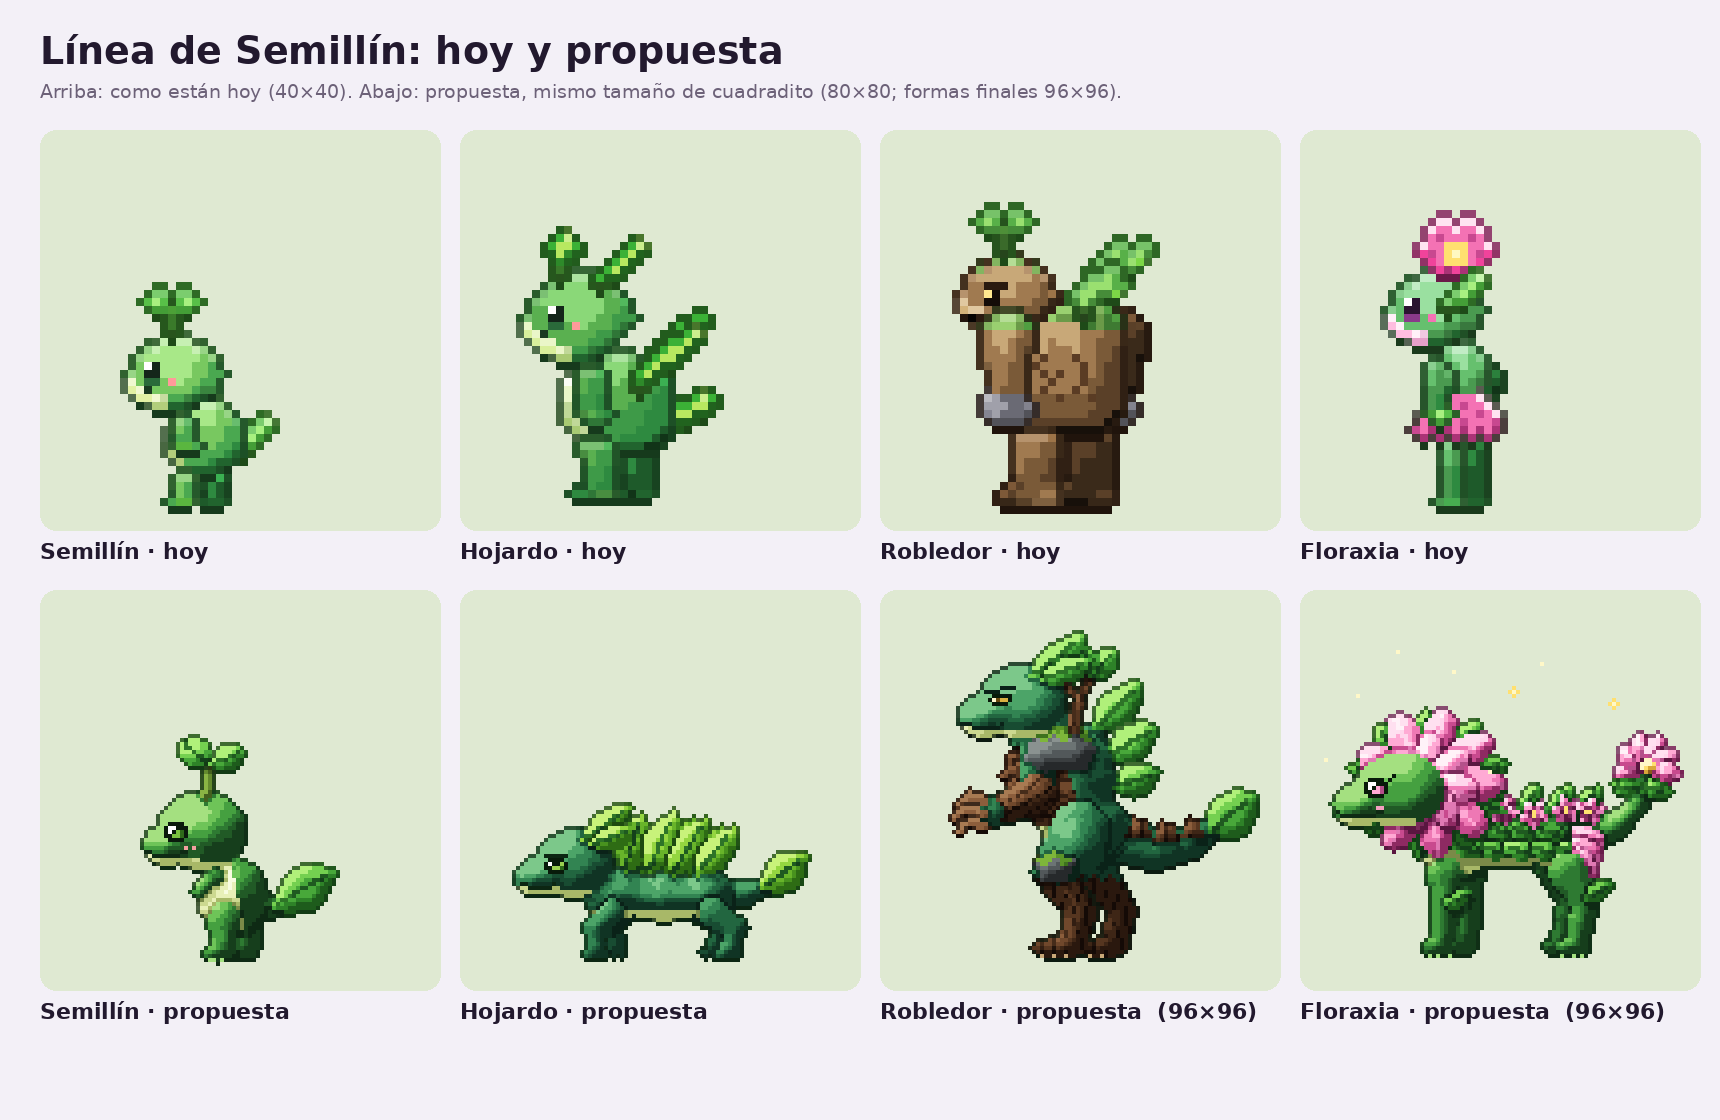
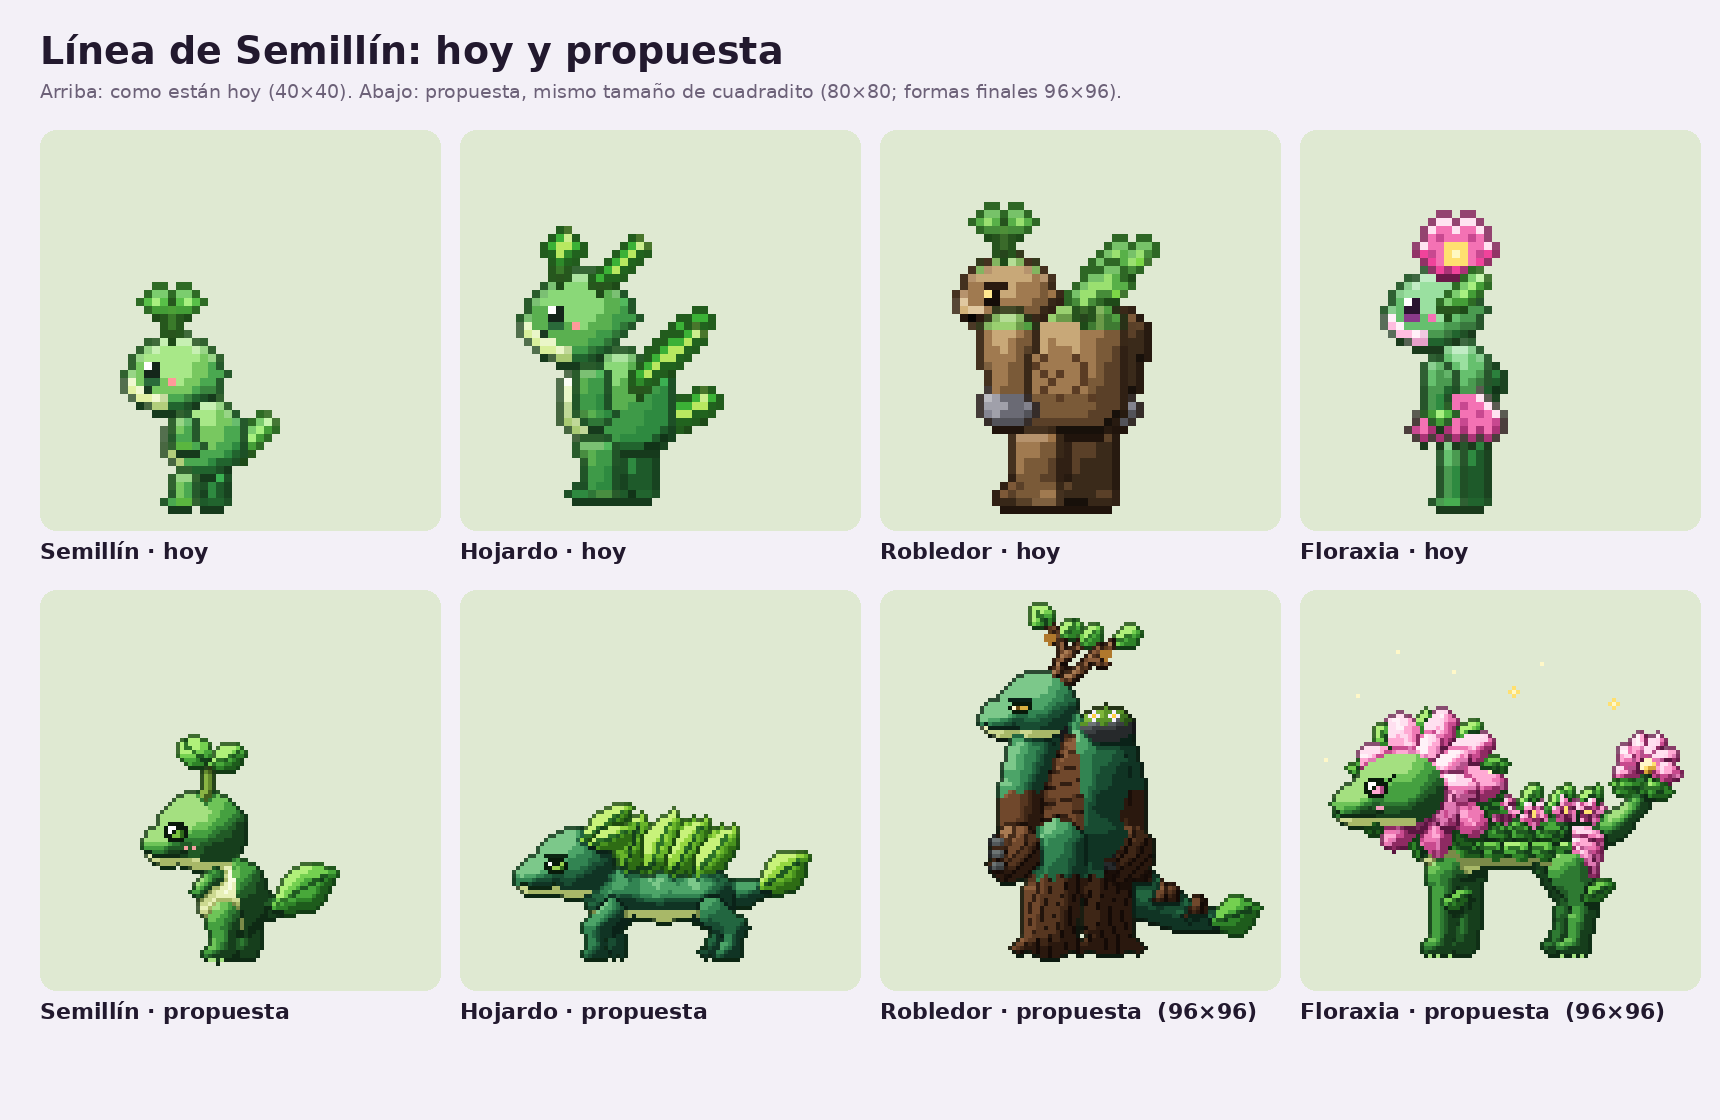
Estudio: Robledor como guardián erguido con astas de ramas (distinto de Magmaurio)
Claude-Session: https://claude.ai/code/session_01CbjX1Jp4CqY9crVcrZtYX4

Changed region(s): [[0.5547, 0.5312, 0.7395, 0.875]]

diff --git a/estudio/robledor/robledor.py b/estudio/robledor/robledor.py
@@ -1,9 +1,9 @@
 """Robledor (planta/roca): forma final de Hojardo por el camino del combate cercano.
 «Un coloso de corteza y piedra. Se planta firme en el suelo y golpea con la fuerza de un roble centenario.»
-Guerrero del bosque en dos patas (proporciones normales, como Magmaurio): piel verde de geco con armadura de
-corteza (peto, brazales y grebas con vetas) y piedra con musgo (hombrera y rodilleras), manos con garras de
-madera, la cabeza de geco de la familia bien visible con su cresta de hojas, hojas grandes en el lomo (las de
-Hojardo), un retoño de roble que le brota del hombro y la cola de geco que termina en una hoja grande."""
+Guardián del bosque, erguido (no un peleador agachado como Magmaurio): parado derecho con los pies plantados,
+piernas rectas como troncos con raíces, torso alto con peto de corteza, hombreras de piedra con musgo y
+florcitas, brazos que cuelgan y terminan en grandes puños de madera nudosa (como mazas), la cabeza de geco de
+la familia coronada por ramas como astas con hojas y bellotas, y la cola gruesa apoyada en el suelo."""
 import math, os, sys
 sys.path.insert(0, os.path.join(os.path.dirname(os.path.abspath(__file__)), '..'))
 import numpy as np
@@ -45,87 +45,85 @@ def stone(moss_top=None):
     return f
 
 
-def claw_hand(c, x, y, far=False):
-    """mano de geco con tres garras de madera"""
-    b = -0.3 if far else 0.0
-    c.parte(c.ell(x, y, 2.8, 3.0), 'skin', R=2.5, bias=b, far=far)
-    for i, (dy, L) in enumerate(((-2.6, 5.4), (0.2, 6.4), (2.8, 5.0))):
-        pts = [(x - 1.4, y + dy), (x - 1.4 - L * 0.5, y + dy - 1.1), (x - 1.4 - L * 0.85, y + dy - 0.2), (x - 1.4 - L, y + dy + 1.3)]
-        c.parte(c.caps(pts, [1.1, 0.9, 0.6, 0.35]), 'bark', R=1.2, bias=b + 0.45, outline='#140a06', far=far)
-
-
 def build(P):
     motor.tamano(96)
-    c = Lienzo(RAMP, P, S=0.98 * 1.2, OX=34, OY=75, CX=34 * 1.2, CY=90, outline='#0c1a10', mid=MID, span=SPAN)
+    c = Lienzo(RAMP, P, S=1.0 * 1.2, OX=40, OY=75, CX=47, CY=90, outline='#0c1a10', mid=MID, span=SPAN)
     f = P['fl']; sw = math.sin(f * 1.3) * 0.8
 
-    def greave(top):
+    def leg_mat(top):
         def g(X, Y):
             m = np.where(Y > top + np.sin(X * 2) * 0.8, 'bark', 'skin').astype(object)
             m[(m == 'bark') & (((X + np.sin(Y * 0.5)) % 2.8) < 0.6)] = 'barkd'
             return m
         return g
-    # ---- pierna lejana (digitígrada) ----
-    legF = c.caps([(46, 48), (43.5, 56), (49, 65), (47.5, 72)], [5.4, 3.8, 2.8, 2.6]) | c.ell(44.8, 73, 4.6, 1.9)
-    c.parte(legF, greave(58), R=3.5, bias=-0.3, far=True)
-    # ---- brazo lejano ----
-    c.parte(c.caps([(42, 30), (41.5, 38.5)], [4.2, 3.4]), 'skin', R=3, bias=-0.3, far=True)
-    c.parte(c.caps([(41.5, 39), (34, 35.5)], [3.8, 3.0]) | c.ell(41, 39.5, 3.6, 3.0), bark(0.9, 2.8), R=3, bias=-0.3, far=True)
-    claw_hand(c, 31.6, 35.2, far=True)
-    # ---- cola de geco con placas de corteza y una hoja grande al final ----
-    c.local(rot=P['tail'], piv=(49, 50))
-    c.parte(c.caps([(49, 50), (56, 52), (63, 51), (69, 47.5)], [4.6, 4.2, 3.2, 2.0]), 'skin', R=4)
-    for (x, y, r) in [(52.5, 47.8, 2.8), (58.5, 48.6, 2.6), (64, 47.4, 2.2)]:
+
+    def tronco_pierna(x0, y0, x1, r0, r1, far):
+        m = c.caps([(x0, y0), ((x0 + x1) / 2, 61), (x1, 69.5)], [r0, (r0 + r1) / 2, r1])
+        for dx, dy in [(-r1 - 1, 2.5), (-r1 * 0.4, 3.4), (r1 * 0.4, 3.2), (r1 + 1, 2.2)]:     # raíces que se agarran al suelo
+            m |= c.caps([(x1, 69.5), (x1 + dx, 72 + dy * 0.4)], [2.2, 1.0])
+        c.parte(m, leg_mat(58), R=4, bias=-0.3 if far else 0.04, far=far)
+
+    def puno(x, y, far):
+        """puño de madera nudosa, como una maza, con nudillos de piedra"""
+        b = -0.3 if far else 0.0
+        c.parte(c.ell(x, y, 5.2, 5.6) | c.ell(x - 1.5, y + 2.5, 4, 3.6), bark(0.6, 2.6), R=4, bias=b + 0.1, far=far)
+        for k in range(3):
+            c.parte(c.ell(x - 3.6, y - 2 + k * 2.4, 1.3, 1.0), stone(), R=1, bias=b, outline='#0e0e10', far=far)
+    # ---- cola gruesa apoyada en el suelo ----
+    c.local(rot=P['tail'] * 0.4, piv=(47, 56))
+    c.parte(c.caps([(46, 56), (54, 62), (62, 66), (70, 67.5)], [5.5, 4.6, 3.4, 2.0]), 'skin', R=4)
+    for (x, y, r) in [(52.5, 57.5, 2.8), (59, 61.5, 2.5), (65, 64.3, 2.0)]:
         c.parte(c.poly([(x - r, y + 1.6), (x - r * 0.4, y - r * 0.8), (x + r * 0.7, y - r * 0.5), (x + r, y + 1.4)]), bark(0.3, 2.4), R=2, outline='#140a06')
-    hoja(c, (67.5, 48.5), (77, 40 + sw * 0.5), 4.6)
+    hoja(c, (68.5, 67.5), (78, 64 + sw * 0.4), 3.6)
     c.local()
-    # ---- hojas grandes del lomo (las de Hojardo) ----
-    for i, (bx, by, dx, dy, w) in enumerate([(43.5, 26, 9, -9, 3.6), (46, 32, 10, -6, 3.6), (47.5, 38.5, 9, -3, 3.2)]):
-        hoja(c, (bx, by), (bx + dx + sw * 0.4, by + dy), w, shade=0.05 if i % 2 else -0.04)
-    # ---- torso erguido: piel verde con peto de corteza ----
-    torso = c.ell(37, 37, 10.5, 11.5, 0.12) | c.ell(41, 47, 9, 7.5) | c.ell(34, 29, 8, 6)
+    # ---- pierna y brazo lejanos ----
+    tronco_pierna(45.5, 51, 47, 5.2, 5.0, True)
+    c.parte(c.caps([(47, 29), (50, 39), (50.5, 48)], [4.6, 4.0, 3.8]), lambda X, Y: np.where(Y > 40, 'bark', 'skin').astype(object), R=3.5, bias=-0.3, far=True)
+    puno(51, 53, True)
+    # ---- torso alto, erguido ----
+    torso = c.ell(40, 37.5, 11, 13) | c.ell(40.5, 49, 10, 6.5)
 
     def torso_mat(X, Y):
         m = np.full(X.shape, 'skin', object)
-        chest = (X < 39 + (Y - 40) * 0.3) & (Y > 30) & (Y < 47)
+        chest = (X < 41 + (Y - 38) * 0.1) & (Y > 28) & (Y < 48)
         m[chest] = 'bark'
-        m[chest & (((X * 0.3 + Y) % 3.2) < 0.6)] = 'barkd'               # vetas horizontales del peto
-        m[(X < 37 + (Y - 40) * 0.35) & (Y >= 47)] = 'belly'
+        m[chest & (((X * 0.25 + Y) % 3.2) < 0.6)] = 'barkd'
+        m[(Y >= 48) & (X < 40)] = 'belly'
         return m
     c.parte(torso, torso_mat, R=9)
-    # ---- pierna cercana, con rodillera de piedra ----
-    legN = c.caps([(40, 48), (34.5, 56.5), (40.5, 65.5), (38.5, 72)], [6.2, 4.2, 3.0, 2.8]) | c.ell(35.2, 73, 5, 2.0)
-    c.parte(legN, greave(58.5), R=4)
-    c.parte(c.ell(39.5, 51.5, 5.6, 6.2, -0.5), 'skin', R=6, bias=0.03, soft=True)
-    c.parte(c.poly([(31, 54.5), (34.5, 52.5), (38.5, 54.5), (37.5, 58.5), (32, 58.8)]), stone(moss_top=54.6), R=3, outline='#0e0e10')
-    # ---- brazo cercano: brazo verde, brazal de corteza, garras de madera ----
-    c.parte(c.caps([(32, 29.5), (31, 38.5)], [4.6, 3.6]), 'skin', R=4)
-    c.parte(c.caps([(31, 40), (23.5, 43.5)], [4.0, 3.0]) | c.ell(31.2, 40.2, 4.0, 3.3), bark(0.9, 2.8), R=3.5)
-    claw_hand(c, 21, 44.2)
-    # ---- hombrera de piedra con musgo y un retoño de roble que brota ----
-    c.parte(c.poly([(28.5, 33), (30.5, 28), (35, 25.5), (40.5, 26.5), (43, 30.5), (41, 34.5), (33, 35.5)]), stone(moss_top=28.4), R=4, outline='#0e0e10')
-    c.parte(c.caps([(38.5, 26.5), (40, 20), (42.5, 15)], [1.3, 1.0, 0.7]) | c.caps([(40, 20), (36.5, 16.5)], [0.8, 0.5]), bark(0.2, 2.2), R=1.5)
-    for (base, tip, w) in [((42.5, 15), (47, 10), 2.4), ((42.5, 15), (40.5, 9), 2.0), ((36.5, 16.5), (32.5, 13), 1.8)]:
-        hoja(c, base, (tip[0] + sw * 0.3, tip[1]), w)
-    # ---- cabeza de geco de la familia, bien visible ----
-    c.local(dx=8.5, dy=P['head'] - 27, sc=0.95, piv=(19.5, 47.5))
+    # ---- pierna cercana ----
+    tronco_pierna(36, 52, 34.5, 5.8, 5.6, False)
+    # ---- hombreras de piedra con musgo y florcitas ----
+    for (x, y, rx, ry, far) in [(46.5, 26.5, 5.5, 3.6, True), (32, 27, 6.5, 4.2, False)]:
+        c.parte(c.ell(x, y, rx, ry), stone(moss_top=y - ry * 0.2), R=3.5, bias=-0.3 if far else 0.0, outline='#0e0e10', far=far)
+    # ---- brazo cercano que cuelga, con puño-maza ----
+    c.parte(c.caps([(31.5, 30), (28.5, 40), (28, 48)], [5.0, 4.2, 4.0]), lambda X, Y: np.where(Y > 40.5 + np.sin(X * 1.6) * 0.8, 'bark', 'skin').astype(object), R=4)
+    puno(27.5, 53, False)
+    # ---- cabeza de geco, erguida, con ramas como astas ----
+    c.local(dx=12.5, dy=P['head'] - 25, sc=0.82, piv=(19.5, 47.5))
+    for (pts, rr) in [([(23, 41.5), (26, 35), (25.5, 30), (22.5, 27)], [1.5, 1.2, 0.9, 0.6]), ([(26, 35), (30.5, 32)], [1.0, 0.6]),
+                      ([(25.5, 42), (31, 38), (35, 33.5), (39.5, 31.5)], [1.4, 1.1, 0.8, 0.5]), ([(33, 35.5), (36.5, 37)], [0.8, 0.5])]:
+        c.parte(c.caps(pts, rr), bark(0.4, 2.2), R=1.5, bias=0.1, outline='#140a06')
     head = c.ell(19.5, 47.5, 9.6, 8.2, -0.04) | c.ell(11, 50.6, 6, 4.8, -0.05)
     c.parte(head, lambda X, Y: np.where(Y > 53.2 + (X - 10) * 0.05, 'belly', 'skin').astype(object), R=6, bias=0.04)
-    hoja(c, (21.5, 41.8), (33, 33), 3.0, shade=0.04)
-    hoja(c, (23.5, 42.6), (34.5, 38.5), 2.6, shade=-0.05)
+    for (base, tip, w) in [((22.5, 27), (18, 23), 2.2), ((30.5, 32), (34.5, 28), 1.9), ((39.5, 31.5), (44.5, 28.5), 2.2), ((25.5, 30), (29.5, 26.5), 1.8)]:
+        hoja(c, base, (tip[0] + sw * 0.3, tip[1]), w)
     c.local()
     c.render()
     # ---- detalles ----
-    c.local(dx=8.5, dy=P['head'] - 27, sc=0.95, piv=(19.5, 47.5))
+    c.local(dx=12.5, dy=P['head'] - 25, sc=0.82, piv=(19.5, 47.5))
     K = {'k': '#081a0a', 'W': '#fff8d0', 'g': '#6a4a10', 'G': '#d8b040'}
     if P['blink']:
         c.patron(12.4, 46.6, ['', 'kkkkkk'], K)
-    else:   # mirada firme, iris ámbar como savia
+    else:   # mirada serena y firme, iris ámbar como savia
         ex, ey = c.patron(12.4, 46.6, ['.kkkkk', 'kWgGGk', '.kkkk.'], K)
-        for dx in range(-1, 7): c.put(ex + dx, ey - 1 - (dx > 2), '#0a2218')
+        for dx in range(0, 6): c.put(ex + dx, ey - 1, '#0a2218')
     c.linea_d([(6, 52.4), (9, 53.2), (12, 53.4), (14.4, 52.8)], '#0a2218')
+    for (x, y) in [(22, 28.2), (35.5, 32.8)]:                     # bellotas en las ramas
+        c.patron(x, y, ['.c.', 'aaa', 'aaa', '.a.'], {'c': '#5a3a1a', 'a': '#b0782c'})
     c.local()
-    for x in (32, 34.5, 37, 42, 44.5): c.putd(x, 74.4, '#c8a878')
+    for (x, y) in [(43.2, 23.6), (47, 23.4)]:                     # florcitas en el musgo de la hombrera
+        c.patron(x, y, ['.p.', 'pyp', '.p.'], {'p': '#f4f0ff', 'y': '#ffd040'})
     return c
 
 
